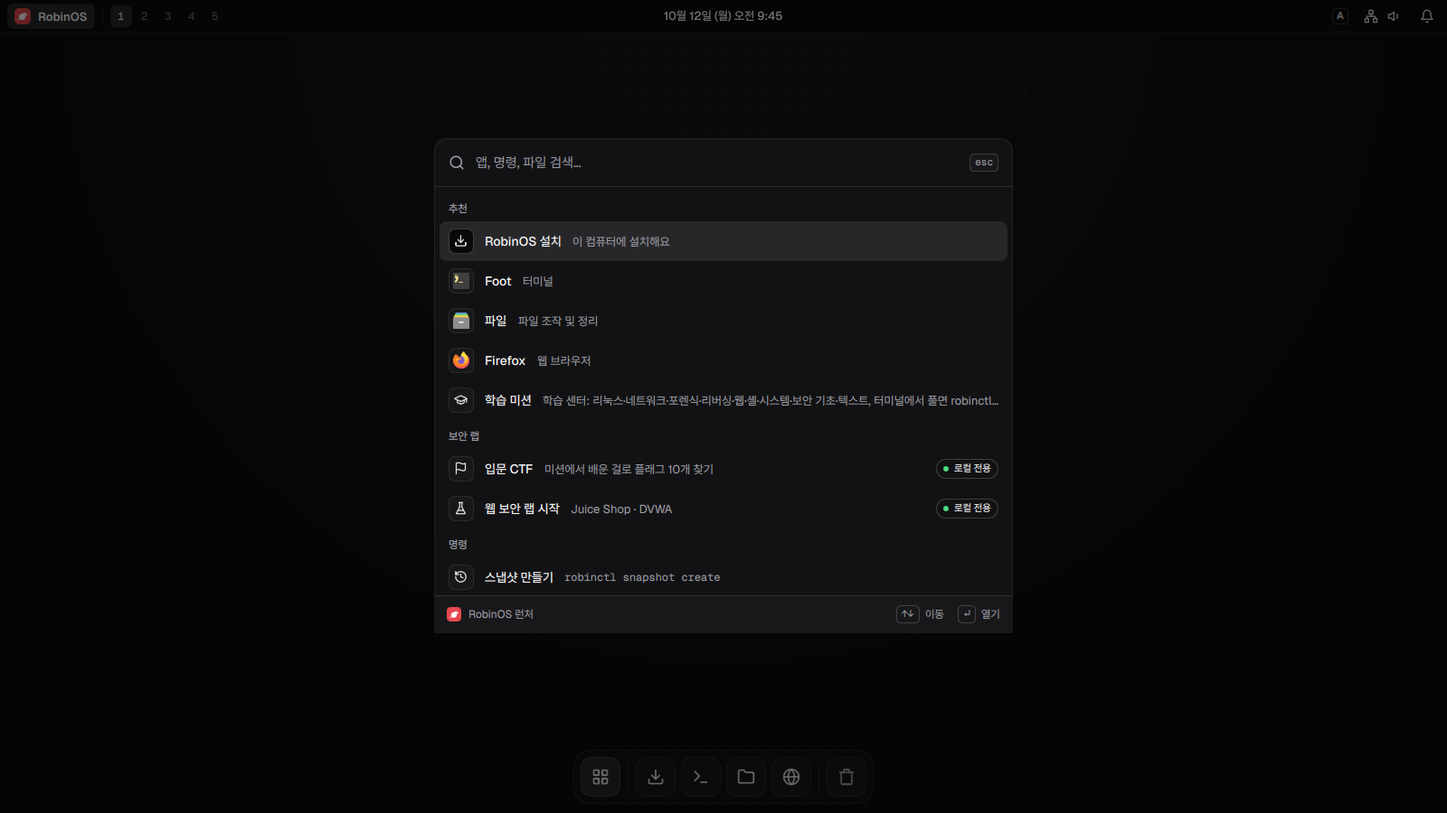
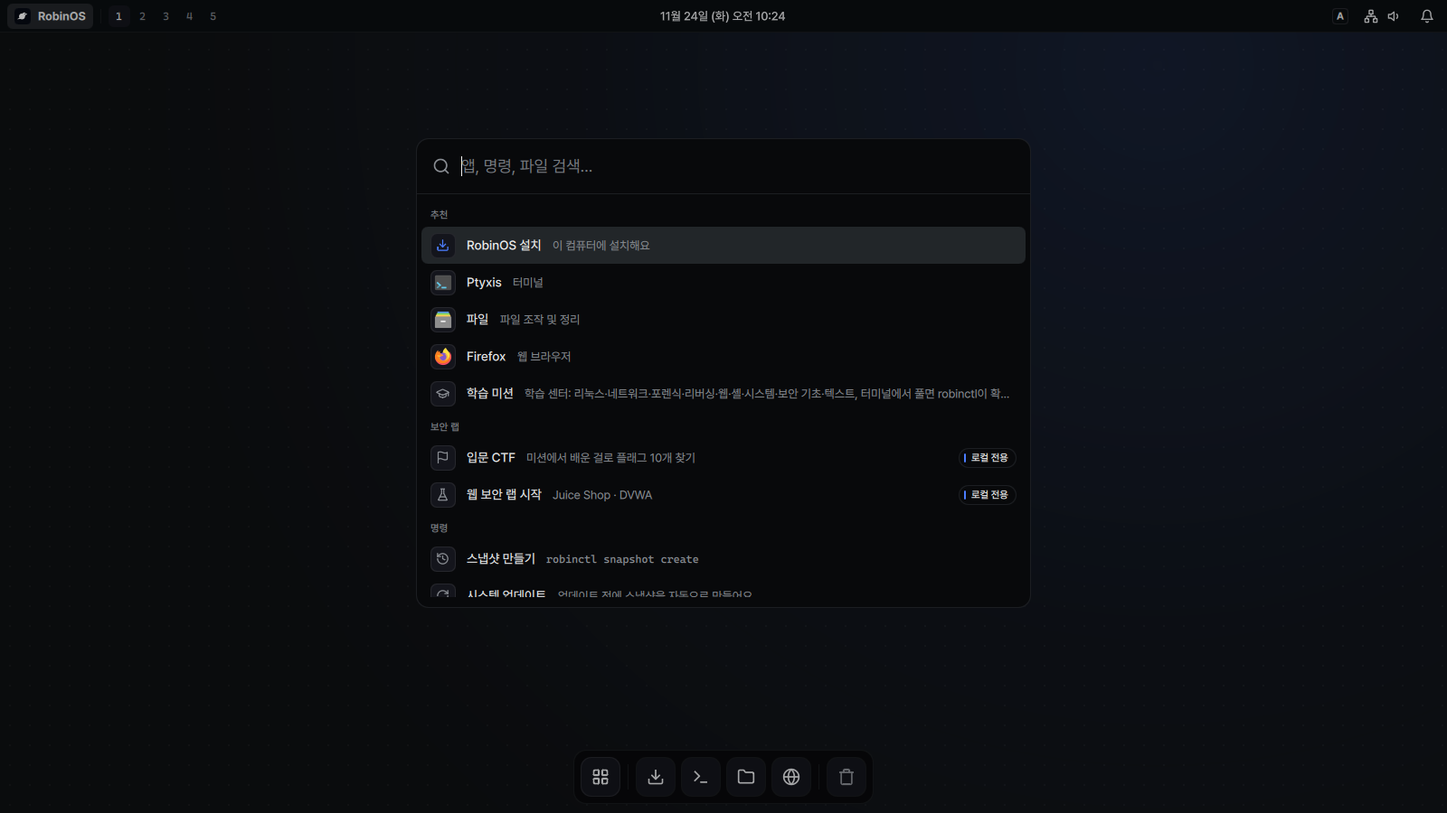
소개 영상을 robin-ui V5로: 키트 색, 새 정체성 문구, 새 화면(T-180 ①)
- 빨강·주황 그라데이션과 보라·주황 빛, 초록 글자를 키트의 파랑 하나와 푸른 검정으로.
  로고 마크도 지금 로고 색으로
- 첫 장면과 마지막 장면 문구를 "예쁜 UI를 가진 OS."로
- 부팅 테스트(c430a5f)의 새 화면 11장으로 바꾸고 자르는 위치를 다시 쟀어요.
  학습 센터 칸은 라이트 학습 센터 창으로. 부팅 메뉴·로그인·스냅샷 목록은 설치 테스트 화면을 기다려요
- 설치 테스트 robinos 런처 장면에 "phone"(휴대폰과 연결, T-186)

diff --git a/promo/intro/style.css b/promo/intro/style.css
@@ -1,6 +1,7 @@
 /* RobinOS intro video, keynote style: black, one statement at a time, real
-   RobinOS screens floating in soft light. Colors are desktop/shell/Theme.qml
-   (zinc) with the brand red; type is Pretendard and Geist.
+   RobinOS screens floating in soft light. Colors are the robin-ui V5 kit
+   (assets/brand/robin-ui/robin-ui.css): blue-black faces and the one blue, no
+   green or yellow; type is Pretendard and Geist.
    No CSS transitions or animations: the recorder freezes the GSAP timeline on
    every frame, and anything CSS moves by itself would differ between frames. */
 
@@ -9,38 +10,38 @@
 @font-face { font-family: "Geist Mono"; src: url("fonts/GeistMono.woff2") format("woff2"); font-weight: 100 900; }
 
 :root {
-  --bg: #000;
-  --fg: #fafafa;
-  --fg-soft: #e4e4e7;
-  --muted: #a1a1aa;
-  --subtle: #71717a;
-  --accent: #e5484d;
-  --ok: #4ade80;
-  --light-bg: #f4f4f5;
-  --ink: #09090b;
-  --ink-muted: #71717a;
-  --grad: linear-gradient(95deg, #ff6b5e 0%, #e5484d 38%, #ff8a3d 78%, #ffb86b 100%);
+  --bg: #08090b;
+  --fg: #f0f0f0;
+  --fg-soft: #e6e7e9;
+  --muted: #8a8e94;
+  --subtle: #7d8187;
+  --accent: #4b7dfe;
+  --ok: #4b7dfe;
+  --light-bg: #f4f5f7;
+  --ink: #000000;
+  --ink-muted: #616161;
+  --grad: linear-gradient(95deg, #4b7dfe 0%, #3d6af0 100%);
   --sans: "Pretendard", "Geist", sans-serif;
   --mono: "Geist Mono", "Pretendard", monospace;
 }
 
 * { box-sizing: border-box; margin: 0; padding: 0; }
-html, body { width: 100%; height: 100%; background: #000; overflow: hidden; }
+html, body { width: 100%; height: 100%; background: #08090b; overflow: hidden; }
 body { font-family: var(--sans); color: var(--fg); -webkit-font-smoothing: antialiased; }
 
 #stage { position: absolute; left: 0; top: 0; width: 1920px; height: 1080px; overflow: hidden; background: var(--bg); transform-origin: 0 0; }
 .scene { position: absolute; inset: 0; visibility: hidden; }
 .persp { perspective: 2200px; perspective-origin: 50% 45%; }
 .scene.light { background: var(--light-bg); color: var(--ink); }
-.black-out { position: absolute; inset: 0; background: #000; opacity: 0; pointer-events: none; }
+.black-out { position: absolute; inset: 0; background: #08090b; opacity: 0; pointer-events: none; }
 .vignette { position: absolute; inset: 0; pointer-events: none; background: radial-gradient(120% 100% at 50% 45%, transparent 55%, rgba(0, 0, 0, 0.55) 100%); }
 
 /* ── light behind the scenes ── */
 .glows { position: absolute; inset: 0; --pulse: 0; }
 .glow { position: absolute; border-radius: 50%; mix-blend-mode: screen; will-change: transform; }
-.g1 { width: 1300px; height: 1000px; background: radial-gradient(closest-side, rgba(229, 72, 77, 0.42), rgba(229, 72, 77, 0.12) 55%, transparent); }
-.g2 { width: 1100px; height: 900px; background: radial-gradient(closest-side, rgba(255, 138, 61, 0.30), rgba(255, 138, 61, 0.08) 55%, transparent); }
-.g3 { width: 1200px; height: 1000px; background: radial-gradient(closest-side, rgba(150, 70, 255, 0.20), rgba(150, 70, 255, 0.05) 55%, transparent); }
+.g1 { width: 1300px; height: 1000px; background: radial-gradient(closest-side, rgba(75, 125, 254, 0.34), rgba(75, 125, 254, 0.10) 55%, transparent); }
+.g2 { width: 1100px; height: 900px; background: radial-gradient(closest-side, rgba(152, 164, 184, 0.16), rgba(152, 164, 184, 0.05) 55%, transparent); }
+.g3 { width: 1200px; height: 1000px; background: radial-gradient(closest-side, rgba(61, 106, 240, 0.20), rgba(61, 106, 240, 0.05) 55%, transparent); }
 
 /* ── words (main.js wraps every word in .w) ── */
 .w { display: inline-block; white-space: pre; will-change: transform, filter, opacity; }
@@ -63,7 +64,7 @@ body { font-family: var(--sans); color: var(--fg); -webkit-font-smoothing: antia
 .lockup.end { top: 300px; }
 .tagline { position: absolute; left: 0; right: 0; top: 620px; text-align: center; font: 600 52px/1.2 var(--sans); letter-spacing: -0.03em; color: var(--fg-soft); }
 .url { position: absolute; left: 0; right: 0; top: 724px; text-align: center; font: 500 32px/1 var(--mono); color: var(--muted); letter-spacing: -0.01em; }
-.ring { position: absolute; left: 50%; top: 430px; width: 400px; height: 400px; margin: -200px 0 0 -200px; border-radius: 50%; box-shadow: 0 0 0 2px rgba(255, 140, 100, 0.65), 0 0 60px 10px rgba(229, 72, 77, 0.35), inset 0 0 60px 10px rgba(229, 72, 77, 0.25); opacity: 0; }
+.ring { position: absolute; left: 50%; top: 430px; width: 400px; height: 400px; margin: -200px 0 0 -200px; border-radius: 50%; box-shadow: 0 0 0 2px rgba(75, 125, 254, 0.65), 0 0 60px 10px rgba(75, 125, 254, 0.35), inset 0 0 60px 10px rgba(75, 125, 254, 0.25); opacity: 0; }
 
 /* ── hero ── */
 .hero { position: absolute; left: 0; right: 0; top: 250px; text-align: center; }
@@ -86,11 +87,11 @@ h2.top { position: absolute; left: 0; right: 0; top: 110px; text-align: center; 
 /* the display that boots */
 .display {
   position: absolute; left: 350px; top: 140px; width: 1220px; height: 695px; padding: 10px; border-radius: 28px;
-  background: linear-gradient(180deg, #1a1a1d, #0c0c0e);
-  box-shadow: 0 0 0 1px rgba(255, 255, 255, 0.16), inset 0 1px 0 rgba(255, 255, 255, 0.10), 0 70px 160px -50px rgba(229, 72, 77, 0.45), 0 50px 120px rgba(0, 0, 0, 0.7);
+  background: linear-gradient(180deg, #14151c, #0e1012);
+  box-shadow: 0 0 0 1px rgba(255, 255, 255, 0.16), inset 0 1px 0 rgba(255, 255, 255, 0.10), 0 70px 160px -50px rgba(75, 125, 254, 0.45), 0 50px 120px rgba(0, 0, 0, 0.7);
   transform-style: preserve-3d;
 }
-.display-inner { position: relative; width: 1200px; height: 675px; border-radius: 18px; overflow: hidden; background: #0a0a0c; }
+.display-inner { position: relative; width: 1200px; height: 675px; border-radius: 18px; overflow: hidden; background: #0a0e11; }
 .shot { position: absolute; inset: 0; }
 .flash { position: absolute; inset: 0; background: #fff; opacity: 0; display: block; }
 .display-glare { position: absolute; inset: 10px; border-radius: 18px; pointer-events: none; background: linear-gradient(115deg, rgba(255, 255, 255, 0.10) 0%, rgba(255, 255, 255, 0.02) 30%, transparent 45%); }
@@ -107,21 +108,21 @@ h2.top { position: absolute; left: 0; right: 0; top: 110px; text-align: center; 
   --press: 0;
   position: relative; display: grid; place-items: center; min-width: 128px; height: 116px; padding: 0 34px; border-radius: 24px;
   font: 600 44px/1 "Geist", var(--sans); letter-spacing: -0.02em; color: var(--fg);
-  background: linear-gradient(180deg, #2e2e33 0%, #1f1f23 100%);
+  background: linear-gradient(180deg, #26272d 0%, #1b1d25 100%);
   transform: translateY(calc(var(--press) * 9px));
   box-shadow:
     inset 0 1.5px 0 rgba(255, 255, 255, 0.14),
     0 0 0 1px rgba(255, 255, 255, 0.10),
-    0 calc((1 - var(--press)) * 10px + 2px) 0 #0b0b0d,
+    0 calc((1 - var(--press)) * 10px + 2px) 0 #08090b,
     0 calc((1 - var(--press)) * 10px + 2px) 0 1px rgba(255, 255, 255, 0.08),
     0 30px 50px rgba(0, 0, 0, 0.6),
-    0 0 calc(var(--press) * 70px) rgba(229, 72, 77, calc(var(--press) * 0.55));
+    0 0 calc(var(--press) * 70px) rgba(75, 125, 254, calc(var(--press) * 0.55));
 }
 .cap.wide { min-width: 300px; }
 .deck { position: absolute; left: 0; top: 0; width: 1920px; height: 1080px; transform-style: preserve-3d; }
 .card {
-  position: absolute; border-radius: 20px; overflow: hidden; background: #09090b;
-  box-shadow: 0 0 0 1px rgba(255, 255, 255, 0.12), 0 60px 120px -30px rgba(0, 0, 0, 0.9), 0 0 120px -30px rgba(229, 72, 77, 0.35);
+  position: absolute; border-radius: 20px; overflow: hidden; background: #0f1115;
+  box-shadow: 0 0 0 1px rgba(255, 255, 255, 0.12), 0 60px 120px -30px rgba(0, 0, 0, 0.9), 0 0 120px -30px rgba(75, 125, 254, 0.35);
 }
 .search-type { position: absolute; display: flex; align-items: center; font: 400 19px/1 var(--sans); color: var(--fg); white-space: pre; }
 .caret { display: inline-block; width: 0.55em; height: 1.05em; margin-left: 2px; vertical-align: -0.18em; background: var(--fg-soft); }
@@ -130,8 +131,8 @@ h2.top { position: absolute; left: 0; right: 0; top: 110px; text-align: center; 
 /* ── terminal ── */
 .term {
   position: absolute; left: 330px; top: 380px; width: 1260px; border-radius: 24px; overflow: hidden;
-  background: rgba(14, 14, 16, 0.82);
-  box-shadow: 0 0 0 1px rgba(255, 255, 255, 0.13), inset 0 1px 0 rgba(255, 255, 255, 0.08), 0 60px 140px -40px rgba(0, 0, 0, 0.9), 0 0 140px -40px rgba(229, 72, 77, 0.35);
+  background: #08090b;
+  box-shadow: 0 0 0 1px rgba(255, 255, 255, 0.13), inset 0 1px 0 rgba(255, 255, 255, 0.08), 0 60px 140px -40px rgba(0, 0, 0, 0.9), 0 0 140px -40px rgba(75, 125, 254, 0.35);
 }
 .term-body { padding: 46px 56px 52px; font: 400 36px/1.7 var(--mono); color: var(--fg-soft); }
 .tline { min-height: 1.7em; white-space: pre-wrap; }
@@ -155,34 +156,34 @@ h2.top { position: absolute; left: 0; right: 0; top: 110px; text-align: center; 
 /* ── rollback ── */
 .timeline { position: absolute; left: 330px; top: 520px; width: 1260px; height: 240px; transform-style: preserve-3d; }
 .track, .track-fill { position: absolute; left: 0; top: 0; height: 6px; margin-top: -3px; border-radius: 3px; display: block; }
-.track { width: 100%; background: #d4d4d8; transform-origin: 0 50%; }
+.track { width: 100%; background: #dedee3; transform-origin: 0 50%; }
 .track-fill { width: 100%; background: var(--grad); transform-origin: 0 50%; transform: scaleX(0); }
 .node { position: absolute; top: 0; width: 360px; margin-left: -180px; text-align: center; }
 .node[data-n="0"] { left: 0; }
 .node[data-n="1"] { left: 50%; }
 .node[data-n="2"] { left: 100%; }
-.node i { display: block; width: 34px; height: 34px; margin: -17px auto 0; border-radius: 50%; background: #fff; box-shadow: 0 0 0 6px #e4e4e7, 0 8px 20px rgba(0, 0, 0, 0.12); }
-.node.on i { background: var(--accent); box-shadow: 0 0 0 6px rgba(229, 72, 77, 0.25), 0 0 40px rgba(229, 72, 77, 0.6); }
+.node i { display: block; width: 34px; height: 34px; margin: -17px auto 0; border-radius: 50%; background: #fff; box-shadow: 0 0 0 6px #e3e6eb, 0 8px 20px rgba(0, 0, 0, 0.12); }
+.node.on i { background: var(--accent); box-shadow: 0 0 0 6px rgba(75, 125, 254, 0.25), 0 0 40px rgba(75, 125, 254, 0.6); }
 .node b { display: block; margin-top: 36px; font: 720 44px/1.1 var(--sans); letter-spacing: -0.04em; color: var(--ink); }
 .node span { display: block; margin-top: 12px; font: 500 30px/1.2 var(--sans); color: var(--ink-muted); }
-.node.gone b, .node.gone span { color: #c4c4c9; }
+.node.gone b, .node.gone span { color: #c6cad2; }
 .now { position: absolute; top: -118px; left: 100%; width: 140px; margin-left: -70px; text-align: center; }
 .now span { display: inline-block; padding: 12px 26px; border-radius: 999px; background: var(--ink); color: #fff; font: 700 30px/1 var(--sans); letter-spacing: -0.02em; box-shadow: 0 12px 30px rgba(0, 0, 0, 0.2); }
 .now::after { content: ""; position: absolute; left: 50%; top: 54px; width: 2px; height: 44px; margin-left: -1px; background: var(--ink); }
 .rewind { position: absolute; left: 630px; top: -150px; width: 640px; height: 190px; overflow: visible; }
 .rewind path { fill: none; stroke: var(--accent); stroke-width: 6; stroke-linecap: round; stroke-linejoin: round; }
-.bootcard { position: absolute; left: 371px; top: 590px; width: 1178px; height: 310px; border-radius: 22px; overflow: hidden; background: #0a0a0c; box-shadow: 0 0 0 1px rgba(0, 0, 0, 0.10), 0 60px 120px -40px rgba(0, 0, 0, 0.45); }
+.bootcard { position: absolute; left: 371px; top: 590px; width: 1178px; height: 310px; border-radius: 22px; overflow: hidden; background: #0a0e11; box-shadow: 0 0 0 1px rgba(0, 0, 0, 0.10), 0 60px 120px -40px rgba(0, 0, 0, 0.45); }
 #rb-caption { top: 950px; font-size: 44px; font-weight: 600; color: var(--ink-muted); }
 
 /* ── bento ── */
 .bento { position: absolute; inset: 0; transform-style: preserve-3d; }
 .tile {
   position: absolute; border-radius: 30px; overflow: hidden;
-  background: linear-gradient(180deg, #17171a 0%, #0d0d0f 100%);
+  background: linear-gradient(180deg, #14151c 0%, #0f1115 100%);
   box-shadow: 0 0 0 1px rgba(255, 255, 255, 0.09), inset 0 1px 0 rgba(255, 255, 255, 0.06), 0 40px 90px -40px rgba(0, 0, 0, 0.9);
 }
 .tile > b { position: absolute; left: 32px; top: 28px; font: 650 30px/1 var(--sans); letter-spacing: -0.025em; color: var(--fg-soft); }
 .tile .crop { border-radius: 14px; box-shadow: 0 0 0 1px rgba(255, 255, 255, 0.08), 0 24px 60px -20px rgba(0, 0, 0, 0.8); }
-.light-tile { background: linear-gradient(180deg, #fafafa 0%, #ececee 100%); box-shadow: 0 0 0 1px rgba(255, 255, 255, 0.2), 0 40px 90px -40px rgba(0, 0, 0, 0.9); }
+.light-tile { background: linear-gradient(180deg, #f8f8f9 0%, #f1f1f2 100%); box-shadow: 0 0 0 1px rgba(255, 255, 255, 0.2), 0 40px 90px -40px rgba(0, 0, 0, 0.9); }
 .light-tile > b { color: var(--ink); }
 .light-tile .crop { box-shadow: 0 0 0 1px rgba(0, 0, 0, 0.06), 0 20px 50px -20px rgba(0, 0, 0, 0.25); }

diff --git a/promo/intro/index.html b/promo/intro/index.html
@@ -24,7 +24,7 @@
   <section class="scene" id="s-hero">
     <div class="hero">
       <p class="eyebrow" data-words>RobinOS</p>
-      <h1><span class="line" data-words>처음 쓰는</span><span class="line grad" data-words>리눅스.</span></h1>
+      <h1><span class="line" data-words>예쁜 UI를 가진</span><span class="line grad" data-words>OS.</span></h1>
     </div>
   </section>
 
@@ -58,12 +58,12 @@
     </div>
     <div class="deck" id="deck">
       <div class="card" id="c-launcher">
-        <div class="crop" data-src="launcher-dark.png" data-crop="480,153,640,318" data-scale="1.42" data-fade></div>
-        <div class="crop over" id="c-launcher-result" data-src="launcher-notepad.png" data-crop="480,153,640,272" data-scale="1.42"></div>
+        <div class="crop" data-src="launcher-dark.png" data-crop="460,153,680,338" data-scale="1.336" data-fade></div>
+        <div class="crop over" id="c-launcher-result" data-src="launcher-notepad.png" data-crop="460,153,680,338" data-scale="1.336" data-fade></div>
         <div class="search-type" id="search-type"><span data-type="search"></span><i class="caret thin"></i></div>
       </div>
       <div class="card" id="c-alttab"><div class="crop" data-src="alt-tab.png" data-crop="566,348,468,204" data-scale="1.95"></div></div>
-      <div class="card" id="c-emoji"><div class="crop" data-src="emoji.png" data-crop="476,149,648,330" data-scale="1.42"></div></div>
+      <div class="card" id="c-emoji"><div class="crop" data-src="emoji.png" data-crop="460,153,680,347" data-scale="1.353"></div></div>
     </div>
   </section>
 
@@ -86,10 +86,10 @@
 
   <!-- 48–52: the breakdown: dark, then light spreads from the middle -->
   <section class="scene" id="s-theme">
-    <div class="theme-card"><div class="crop" data-src="launcher-dark.png" data-crop="480,153,640,318" data-scale="1.25" data-fade></div></div>
+    <div class="theme-card"><div class="crop" data-src="launcher-dark.png" data-crop="460,153,680,338" data-scale="1.176" data-fade></div></div>
   </section>
   <section class="scene light" id="s-theme-light">
-    <div class="theme-card"><div class="crop" data-src="launcher-light.png" data-crop="480,153,640,318" data-scale="1.25" data-fade></div></div>
+    <div class="theme-card"><div class="crop" data-src="launcher-light.png" data-crop="460,153,680,338" data-scale="1.176" data-fade></div></div>
     <p class="theme-caption" id="day-word" data-words>라이트 모드도 있어요.</p>
   </section>
 
@@ -114,12 +114,12 @@
   <section class="scene persp" id="s-bento">
     <h2 class="top" id="bento-head"><span data-words>매일 쓰는 것도</span> <span class="grad" data-words>다 있어요.</span></h2>
     <div class="bento" id="bento">
-      <div class="tile" data-rect="120,250,390,760"><b>빠른 설정</b><div class="crop" data-src="quick-settings.png" data-crop="1246,40,348,552" data-fit="tile"></div></div>
-      <div class="tile" data-rect="530,250,640,470"><b>학습 센터</b><div class="crop" data-src="mission.png" data-crop="336,122,640,480" data-fit="tile"></div></div>
-      <div class="tile" data-rect="1190,250,295,470"><b>달력</b><div class="crop" data-src="calendar.png" data-crop="646,40,307,390" data-fit="tile"></div></div>
-      <div class="tile" data-rect="1505,250,295,470"><b>소리</b><div class="crop" data-src="sound.png" data-crop="1250,40,344,310" data-fit="tile"></div></div>
-      <div class="tile" data-rect="530,740,640,270"><b>클립보드 기록</b><div class="crop" data-src="clipboard.png" data-crop="476,149,648,248" data-fit="tile"></div></div>
-      <div class="tile light-tile" data-rect="1190,740,610,270"><b>라이트 모드</b><div class="crop" data-src="launcher-light.png" data-crop="480,153,640,318" data-fit="tile" data-fade></div></div>
+      <div class="tile" data-rect="120,250,390,760"><b>빠른 설정</b><div class="crop" data-src="quick-settings.png" data-crop="1246,40,348,504" data-fit="tile"></div></div>
+      <div class="tile light-tile" data-rect="530,250,640,470"><b>학습 센터</b><div class="crop" data-src="mission.png" data-crop="420,130,760,480" data-fit="tile"></div></div>
+      <div class="tile" data-rect="1190,250,295,470"><b>달력</b><div class="crop" data-src="calendar.png" data-crop="647,41,306,316" data-fit="tile"></div></div>
+      <div class="tile" data-rect="1505,250,295,470"><b>소리</b><div class="crop" data-src="sound.png" data-crop="1252,42,340,300" data-fit="tile"></div></div>
+      <div class="tile" data-rect="530,740,640,270"><b>클립보드 기록</b><div class="crop" data-src="clipboard.png" data-crop="460,153,680,205" data-fit="tile"></div></div>
+      <div class="tile light-tile" data-rect="1190,740,610,270"><b>라이트 모드</b><div class="crop" data-src="launcher-light.png" data-crop="460,153,680,338" data-fit="tile" data-fade></div></div>
     </div>
   </section>
 
@@ -130,7 +130,7 @@
       <div class="mark-slot" data-mark></div>
       <div class="wordmark"><span class="wm-text">RobinOS</span><span class="wm-sweep" aria-hidden="true">RobinOS</span></div>
     </div>
-    <p class="tagline" data-words>처음 쓰는 리눅스.</p>
+    <p class="tagline" data-words>예쁜 UI를 가진 OS.</p>
     <p class="url" id="url">github.com/Yoon-robin/RobinOS</p>
   </section>
 

diff --git a/promo/intro/main.js b/promo/intro/main.js
@@ -36,14 +36,14 @@ function markSvg() {
   <defs><clipPath id="${id}"><circle cx="124" cy="130" r="54"/><circle cx="164" cy="92" r="32"/></clipPath></defs>
   <g transform="translate(-3 -7)">
     <g class="m-robin">
-      <path d="M82 150 L50 165 C45 167.5 46.5 174 52 173.5 L96 166 Z" fill="#A1A1AA"/>
-      <g clip-path="url(#${id})"><rect width="256" height="256" fill="#FAFAFA"/><path d="M66 110 C 92 100, 122 112, 132 140 C 106 148, 82 140, 66 124 Z" fill="#E4E4E7"/></g>
-      <path d="M193 84 L218 93 L193 102 Z" fill="#A1A1AA"/>
-      <circle cx="174" cy="85" r="6.5" fill="#09090B"/>
-      <path d="M114 184 V203 M134 184 V203" stroke="#A1A1AA" stroke-width="6" stroke-linecap="round"/>
+      <path d="M82 150 L50 165 C45 167.5 46.5 174 52 173.5 L96 166 Z" fill="#8A8E94"/>
+      <g clip-path="url(#${id})"><rect width="256" height="256" fill="#F0F0F0"/><path d="M66 110 C 92 100, 122 112, 132 140 C 106 148, 82 140, 66 124 Z" fill="#E6E7E9"/></g>
+      <path d="M193 84 L218 93 L193 102 Z" fill="#8A8E94"/>
+      <circle cx="174" cy="85" r="6.5" fill="#0A0E11"/>
+      <path d="M114 184 V203 M134 184 V203" stroke="#8A8E94" stroke-width="6" stroke-linecap="round"/>
     </g>
-    <path class="m-chev" d="M48 193 L65 205 L48 217" fill="none" stroke="#E5484D" stroke-width="10" stroke-linecap="round" stroke-linejoin="round"/>
-    <rect class="m-cursor" x="84" y="200" width="96" height="10" rx="5" fill="#FAFAFA"/>
+    <path class="m-chev" d="M48 193 L65 205 L48 217" fill="none" stroke="#4B7DFE" stroke-width="10" stroke-linecap="round" stroke-linejoin="round"/>
+    <rect class="m-cursor" x="84" y="200" width="96" height="10" rx="5" fill="#F0F0F0"/>
   </g>
 </svg>`;
 }
@@ -130,11 +130,12 @@ async function setupPatches() {
     width: `${320 * ls}px`, height: `${32 * ls}px`, paddingLeft: `${10 * ls}px`,
     background: await sample("login.png", 900, 564), borderRadius: "5px",
   });
-  // launcher-dark.png search field (520..1060, 165..195): covered while "notepad" is typed
+  // launcher-dark.png search field (508..1130, 170..198): covered while "notepad" is typed,
+  // in the launcher's own 18px type
   const card = q("#c-launcher"), cs = Number(q(".crop", card).dataset.scale), st = q("#search-type");
   Object.assign(st.style, {
-    left: `${(522 - 480) * cs}px`, top: `${(166 - 153) * cs}px`, width: `${(1060 - 522) * cs}px`, height: `${28 * cs}px`,
-    background: await sample("launcher-dark.png", 800, 168),
+    left: `${(508 - 460) * cs}px`, top: `${(170 - 153) * cs}px`, width: `${(1130 - 508) * cs}px`, height: `${28 * cs}px`,
+    fontSize: `${18 * cs}px`, background: await sample("launcher-dark.png", 800, 172),
   });
 }
 
@@ -283,8 +284,8 @@ function build() {
       tl.to(set, { autoAlpha: 0, y: -24, filter: "blur(8px)", duration: 0.3, ease: "lift" }, end);
       // The line that goes with it; the one before steps back
       reveal(items[i], at + 0.05, { stagger: 0.05, dur: 0.9, y: 30, blur: 12 });
-      gsap.set(items[i], { color: "#fafafa" });
-      if (i > 0) tl.to(items[i - 1], { color: "#52525b", duration: 0.5, ease: "power2.out" }, at);
+      gsap.set(items[i], { color: "#f0f0f0" });
+      if (i > 0) tl.to(items[i - 1], { color: "#7d8187", duration: 0.5, ease: "power2.out" }, at);
     });
 
     // The deck: each panel lands in front, the earlier ones step back and up

diff --git a/scripts/install-test.py b/scripts/install-test.py
@@ -1164,8 +1164,9 @@ def phase_rollback(con, qmp):
     shot(qmp, "desktop-after-wizard")
     # Windows names for apps only the installed system has (packages/apps.txt):
     # "word" finds LibreOffice Writer, "store" GNOME Software, "printer" the printer
-    # settings, "steam" offers Steam from the app store (Flathub), "video" the video player
-    for query in ("word", "store", "printer", "steam", "video"):
+    # settings, "steam" offers Steam from the app store (Flathub), "video" the video player,
+    # "phone" (휴대폰과 연결, T-186) offers LocalSend from the store and the firewall rule
+    for query in ("word", "store", "printer", "steam", "video", "phone"):
         qmp.keys("meta_l", "spc")
         sleep(3)
         qmp.type_text(query)

diff --git a/promo/intro/README.md b/promo/intro/README.md
@@ -22,7 +22,7 @@ node render.mjs --stills=4.5,12,27   # 그 시각만 out/stills/*.png로 찍기
 
 2026-10-12 Robin: "PPT 슬라이드 같아", "애플 느낌의 모션그래픽". 그래서 이렇게 만들었어요.
 
-- **한 번에 한 문장.** 검은 바탕에 큰 문장 하나만 보여요. 단어는 흐림에서 떠올라 한 박에 하나씩 자리를 잡고(긴 착지 곡선 `0.16, 1, 0.3, 1`), 강조할 말은 RobinOS 빨강에서 주황으로 가는 그라데이션이에요.
+- **한 번에 한 문장.** 검은 바탕에 큰 문장 하나만 보여요. 단어는 흐림에서 떠올라 한 박에 하나씩 자리를 잡고(긴 착지 곡선 `0.16, 1, 0.3, 1`), 강조할 말은 키트의 파랑이에요(2026-11-24부터, 그 전에는 빨강에서 주황으로 가는 그라데이션).
 - **실제 화면이 공중에 떠 있어요.** 스크린샷은 모두 테스트가 찍은 실제 RobinOS 화면이고, 깊이(원근)를 두고 기울어진 채 들어와 바로 서요. 앞의 패널은 뒤로 물러나 쌓여요.
 - **멈춘 장면이 없어요.** 뒤의 부드러운 빛 세 개가 천천히 떠다니고, 킥마다 살짝 커졌다 돌아와요. 장면마다 카메라가 조금씩 다가가고, 장면이 바뀔 때는 앞의 것이 카메라 쪽으로 흐려지며 빠져요.
 - **박자에 맞춰요.** 장면, 단어, 키 누름, Enter가 모두 `cues.js`의 박 번호에 있어요. 쉬는 마디에 다크에서 라이트로 바뀌고, 두 번째 드롭에 "되돌리기"가 시작해요.
@@ -33,14 +33,14 @@ node render.mjs --stills=4.5,12,27   # 그 시각만 out/stills/*.png로 찍기
 | 박 | 시각 | 장면 |
 |---|---|---|
 | 0–8 | 0–4.1초 | 빨간 `>`가 그려지고 커서가 생기고, 울새가 커서에 내려앉아요. 로고가 옆으로 비켜서며 `RobinOS`가 떠올라요 |
-| 8–16 | 4.1–8.3초 | **드롭.** "처음 쓰는 리눅스." 한 박에 한 단어 |
+| 8–16 | 4.1–8.3초 | **드롭.** "예쁜 UI를 가진 OS." 한 박에 한 단어 |
 | 16–24 | 8.3–12.4초 | 누운 화면이 일어서며 켜져요: 실제 부팅 메뉴 → 로그인(비밀번호 다섯 자, Enter) → 바탕 화면. "처음 켤 때부터 한국어예요." |
 | 24–36 | 12.4–18.6초 | "윈도우에서 쓰던 그대로." 왼쪽에 "앱 찾기", "창 전환", "이모지"가 하나씩 쌓이고, 입체 키캡 `Win`+`Space`, `Alt`+`Tab`, `Win`+`.`이 눌리고, 런처(`notepad` 검색 → 텍스트 편집기)·창 전환·이모지 패널이 차례로 앞에 내려앉아요 |
 | 36–48 | 18.6–24.8초 | 터미널에 `ipconfig` → `ip a`를 알려 주는 힌트, "막히면 알려 줘요." 터미널이 옆으로 비키고 큰 숫자가 45까지 세어져요(학습 미션) |
 | 48–52 | 24.8–26.9초 | 쉬는 마디. 다크 런처 가운데서 빛이 퍼지며 라이트로 바뀌고 "라이트 모드도 있어요." |
 | 52–60 | 26.9–31.0초 | **두 번째 드롭.** "망가져도 되돌리면 그만." 설치 → 업데이트 전 → 업데이트 후 스냅샷이 줄에 찍히고, "지금"이 업데이트 전으로 돌아가요. 그리고 실제 부팅 메뉴의 스냅샷 목록 |
 | 60–72 | 31.0–37.2초 | "매일 쓰는 것도 다 있어요." 빠른 설정, 학습 센터, 달력, 소리, 클립보드 기록, 라이트 모드가 벤토 격자로 반 박마다 하나씩 들어와요 |
-| 72–80 | 37.2–41.4초 | 빛의 고리, 로고, "처음 쓰는 리눅스.", GitHub 주소. 검게 사라져요 |
+| 72–80 | 37.2–41.4초 | 빛의 고리, 로고, "예쁜 UI를 가진 OS.", GitHub 주소. 검게 사라져요 |
 
 ## 음악
 
@@ -63,17 +63,17 @@ node beats.mjs out/mono.wav 0 42    # 템포, 박 위치, 마디마다의 세기
 | 파일 | 하는 일 |
 |---|---|
 | `cues.js` | **시간표.** 박자, 곡 구간, 장면, 타자, 키 누름, Enter, 바람 소리. 화면과 소리가 둘 다 이 숫자를 읽어요 |
-| `index.html`, `style.css` | 장면의 생김새. 색은 `desktop/shell/Theme.qml`(zinc)과 RobinOS 빨강 |
+| `index.html`, `style.css` | 장면의 생김새. 색은 robin-ui V5 키트(`assets/brand/robin-ui/robin-ui.css`): 푸른 검정 면, 파랑 하나, 초록·노랑 없음 |
 | `main.js` | 움직임(GSAP 타임라인 하나), 단어 나누기, 타자·커서·숫자 세기·빛을 t로 계산하기 |
 | `music.mjs` | 곡 합성과 효과음 → `out/audio.wav` |
 | `beats.mjs` | WAV의 템포, 박 위치, 마디마다의 세기 재기 |
 | `render.mjs` | 헤드리스 크롬 → 프레임마다 `__video.seek(t)` → 찍기 → ffmpeg |
 | `server.mjs`, `preview.mjs`, `fonts.mjs` | 127.0.0.1 로컬 서버, 미리보기, 글꼴 받기 |
-| `assets/` | 실제 화면. 부팅 테스트(`build/boot-test`, 2026-10-12)와 설치 테스트(부팅 메뉴, 로그인, 스냅샷 목록)가 찍은 1600×900 스크린샷이에요. `index.html`의 `data-crop`(x, y, 너비, 높이)으로 필요한 부분만 잘라 써요 |
+| `assets/` | 실제 화면. 부팅 테스트(`build/boot-test`, 2026-11-24 robin-ui V5 화면: 런처 13·15·78번, 창 전환 69, 이모지 54, 클립보드 53, 달력 28, 소리 60, 빠른 설정 24, 학습 센터 80, 바탕 화면 10)와 설치 테스트(부팅 메뉴, 로그인, 스냅샷 목록)가 찍은 1600×900 스크린샷이에요. `index.html`의 `data-crop`(x, y, 너비, 높이)으로 필요한 부분만 잘라 써요 |
 
 ## 지킨 것
 
-- **문구는 RobinOS의 목적을 따라요.** "처음 쓰는 리눅스"([design.md](../../docs/design.md), 2026-10-12)예요. 처음 판의 "매일 쓰는, 나만의 OS."는 무엇을 하는 OS인지 말하지 않아서 바꿨고(Robin: "뭐 어쩌라는 건지 모르겠어"), 그다음 판의 "쓰다 보면 리눅스를 알게 되는 OS"와 "리눅스, 처음이어도 괜찮아요."는 광고 문구 같아서 줄였어요(Robin: "살짝 cringe야"). "밤에는 다크, 낮에는 라이트." 같은 대구와 쉼표로 가른 꾸민 제목도 덜어 냈어요(Robin: "AI 같은 말 다 정리해").
+- **문구는 RobinOS의 정체성을 따라요.** 2026-11-24부터 "예쁜 UI를 가진 OS"([design.md](../../docs/design.md) "정체성 다시 정하기")예요. 그 전에는 목적 "처음 쓰는 리눅스"(2026-10-12)였어요. 처음 판의 "매일 쓰는, 나만의 OS."는 무엇을 하는 OS인지 말하지 않아서 바꿨고(Robin: "뭐 어쩌라는 건지 모르겠어"), 그다음 판의 "쓰다 보면 리눅스를 알게 되는 OS"와 "리눅스, 처음이어도 괜찮아요."는 광고 문구 같아서 줄였어요(Robin: "살짝 cringe야"). "밤에는 다크, 낮에는 라이트." 같은 대구와 쉼표로 가른 꾸민 제목도 덜어 냈어요(Robin: "AI 같은 말 다 정리해").
 - **실제로 있는 기능과 명령만** 넣어요. 화면은 모두 테스트가 찍은 실제 스크린샷이고, 터미널 문구는 `robinos-hints.sh`의 실제 출력이에요. 스냅샷 줄의 세 점(설치, 업데이트 전, 업데이트 후)도 부팅 메뉴의 실제 목록(single, pre, post)과 같아요.
 - **보안은 앞세우지 않아요**(2026-10-12 Robin: "보안은 강조하지마"). 부팅 메뉴의 "Security Learning Workstation"과 안내 줄은 그 자리의 배경색으로 덮고, 런처는 보안 랩 항목 전에서 잘라요. 제품 문구를 고치면(T-151) 스크린샷을 새로 찍어 바꿔요.
 
